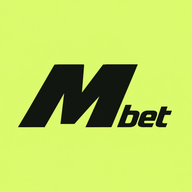
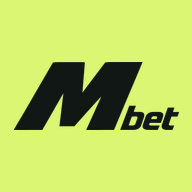
Icone più grandi e PIN anche per i telefoni già dentro
Icone ricostruite con la scritta su fondo lime piatto (86% normale, 68% maskable separata per Android).
Le squadre senza PIN (entrate prima della 015) lo chiedono al telefono già riconosciuto:
rotte GET/POST /api/pin e riquadro «Imposta il PIN». Test aggiornati.

diff --git a/server/src/index.ts b/server/src/index.ts
@@ -112,6 +112,36 @@ app.post('/api/enter', async (req, reply) => {
   })
 })
 
+// Squadre entrate prima dei PIN: il telefono già riconosciuto può impostarlo da qui (GET: serve?, POST: imposta).
+// Il token dice di quale squadra è il telefono: il server lo verifica prima di fidarsi di teamId.
+async function ownPin(req: FastifyRequest, reply: FastifyReply, teamId: number | null) {
+  const t = token(req, reply)
+  if (!t) return null
+  if (teamId === null) { reply.code(400).send({ error: 'unknown_team', message: 'Squadra sconosciuta.' }); return null }
+  const { data, error } = await db.rpc('mb_pin_status', { p_team: teamId, p_token: t })
+  if (error) { const e = toApiError(error); reply.code(e.status).send({ error: e.code, message: e.message }); return null }
+  if (!data.known) { reply.code(401).send({ error: 'unauthorized', message: 'Sessione non valida: scegli di nuovo la squadra.' }); return null }
+  return data as { hasPin: boolean }
+}
+
+app.get('/api/pin', async (req, reply) => {
+  const st = await ownPin(req, reply, int(Number((req.query as { teamId?: string }).teamId)))
+  if (st) return { hasPin: st.hasPin }
+})
+
+app.post('/api/pin', async (req, reply) => {
+  const b = (req.body ?? {}) as { teamId?: unknown; pin?: unknown }
+  const st = await ownPin(req, reply, int(b.teamId))
+  if (!st) return
+  if (st.hasPin) return reply.code(409).send({ error: 'pin_taken', message: 'Questa squadra ha già un PIN.' })
+  if (typeof b.pin !== 'string' || !PIN_FORMAT.test(b.pin)) return reply.code(400).send({ error: 'pin_required', message: 'Servono 4 cifre per il PIN.' })
+  const { hash, salt } = hashPin(b.pin)
+  const { data: set, error } = await db.rpc('mb_pin_set', { p_team: b.teamId, p_hash: hash, p_salt: salt })
+  if (error) { const e = toApiError(error); return reply.code(e.status).send({ error: e.code, message: e.message }) }
+  if (!set) return reply.code(409).send({ error: 'pin_taken', message: 'Questa squadra ha già un PIN.' })
+  return { ok: true }
+})
+
 app.get('/api/state', async (req, reply) => {
   const t = token(req, reply)
   if (t) return rpc(reply, 'mb_get_state', { p_token: t })

diff --git a/web/src/components/PinSetup.tsx b/web/src/components/PinSetup.tsx
@@ -1,0 +1,39 @@
+import { useState } from 'react'
+import { actions } from '../store/game'
+import { Sheet } from './Sheet'
+
+const digits = (v: string) => v.replace(/\D/g, '').slice(0, 4)
+
+/** Per le squadre senza PIN (entrate prima della sua introduzione): senza, un altro telefono potrebbe sceglierlo lui. */
+export function PinSetup({ teamId, team, onDone }: { teamId: number; team: string | null; onDone: () => void }) {
+  const [pin, setPin] = useState('')
+  const [pin2, setPin2] = useState('')
+  const [error, setError] = useState('')
+  const [busy, setBusy] = useState(false)
+
+  const save = async () => {
+    if (pin.length !== 4 || busy) return
+    if (pin !== pin2) { setError('I due PIN non coincidono.'); return }
+    setBusy(true)
+    const r = await actions.setOwnPin(teamId, pin)
+    setBusy(false)
+    if (r.ok) onDone()
+    else setError(r.error)
+  }
+
+  return (
+    <Sheet onClose={onDone}>
+      <div className="hd">IMPOSTA IL PIN</div>
+      <p className="sq" style={{ fontSize: 22 }}>{team}</p>
+      <p className="note">Scegli 4 cifre. Ti serviranno per rientrare in questa squadra da un altro telefono: senza PIN chiunque potrebbe prenderla.</p>
+      <label className="note" htmlFor="npin1">PIN</label>
+      <input id="npin1" type="password" inputMode="numeric" autoComplete="off" maxLength={4} value={pin} onChange={(e) => setPin(digits(e.target.value))} />
+      <label className="note" htmlFor="npin2">Ripeti il PIN</label>
+      <input id="npin2" type="password" inputMode="numeric" autoComplete="off" maxLength={4} value={pin2}
+        onChange={(e) => setPin2(digits(e.target.value))} onKeyDown={(e) => e.key === 'Enter' && void save()} />
+      {error && <p className="err" role="alert">{error}</p>}
+      <button className="cta sm" disabled={busy || pin.length !== 4 || pin2.length !== 4} onClick={() => void save()}>SALVA PIN</button>
+      <button className="ghost" onClick={onDone}>Più tardi</button>
+    </Sheet>
+  )
+}

diff --git a/web/src/App.tsx b/web/src/App.tsx
@@ -1,5 +1,6 @@
-import { useState } from 'react'
-import { useGame, type Side } from './store/game'
+import { useEffect, useState } from 'react'
+import { actions, useGame, type Side } from './store/game'
+import { PinSetup } from './components/PinSetup'
 import { BottomNav } from './components/BottomNav'
 import { BetSheet } from './components/BetSheet'
 import { CreateSheet } from './components/CreateSheet'
@@ -25,6 +26,15 @@ function Game() {
   const s = useGame()
   const [sheet, setSheet] = useState<SheetState>(null)
   const close = () => setSheet(null)
+  const [pinAsk, setPinAsk] = useState(false)
+
+  // Squadra entrata prima dei PIN: al primo caricamento chiede di impostarlo (una volta per apertura dell'app).
+  useEffect(() => {
+    if (!s.teamId) { setPinAsk(false); return }
+    let live = true
+    void actions.needsPin(s.teamId).then((n) => { if (live) setPinAsk(n) })
+    return () => { live = false }
+  }, [s.teamId])
 
   if (!s.ready) return <div id="app"><p className="empty">Carico…</p></div>
 
@@ -47,6 +57,7 @@ function Game() {
       <BottomNav />
       {sheet?.type === 'bet' && <BetSheet marketId={sheet.id} side={sheet.side} onClose={close} />}
       {sheet?.type === 'create' && <CreateSheet onClose={close} />}
+      {pinAsk && s.teamId !== null && <PinSetup teamId={s.teamId} team={s.team} onDone={() => setPinAsk(false)} />}
       <MustResolve />
       <Toast />
     </>

diff --git a/web/src/store/game.ts b/web/src/store/game.ts
@@ -410,6 +410,24 @@ export const actions = {
     }
   },
 
+  /** Una squadra entrata prima dei PIN non ne ha uno: il telefono riconosciuto può impostarlo. */
+  async needsPin(teamId: number): Promise<boolean> {
+    try {
+      return !(await api<{ hasPin: boolean }>(`/pin?teamId=${teamId}`)).hasPin
+    } catch {
+      return false
+    }
+  },
+
+  async setOwnPin(teamId: number, pin: string): Promise<Result> {
+    try {
+      await api('/pin', { body: { teamId, pin } })
+      return ok
+    } catch (e) {
+      return fail(e)
+    }
+  },
+
   leaveTeam() {
     setToken(null)
     set({ team: null, teamId: null, markets: [], ledger: [], leaderboard: [], rankings: null, balance: 0, bankruptUntil: null })
